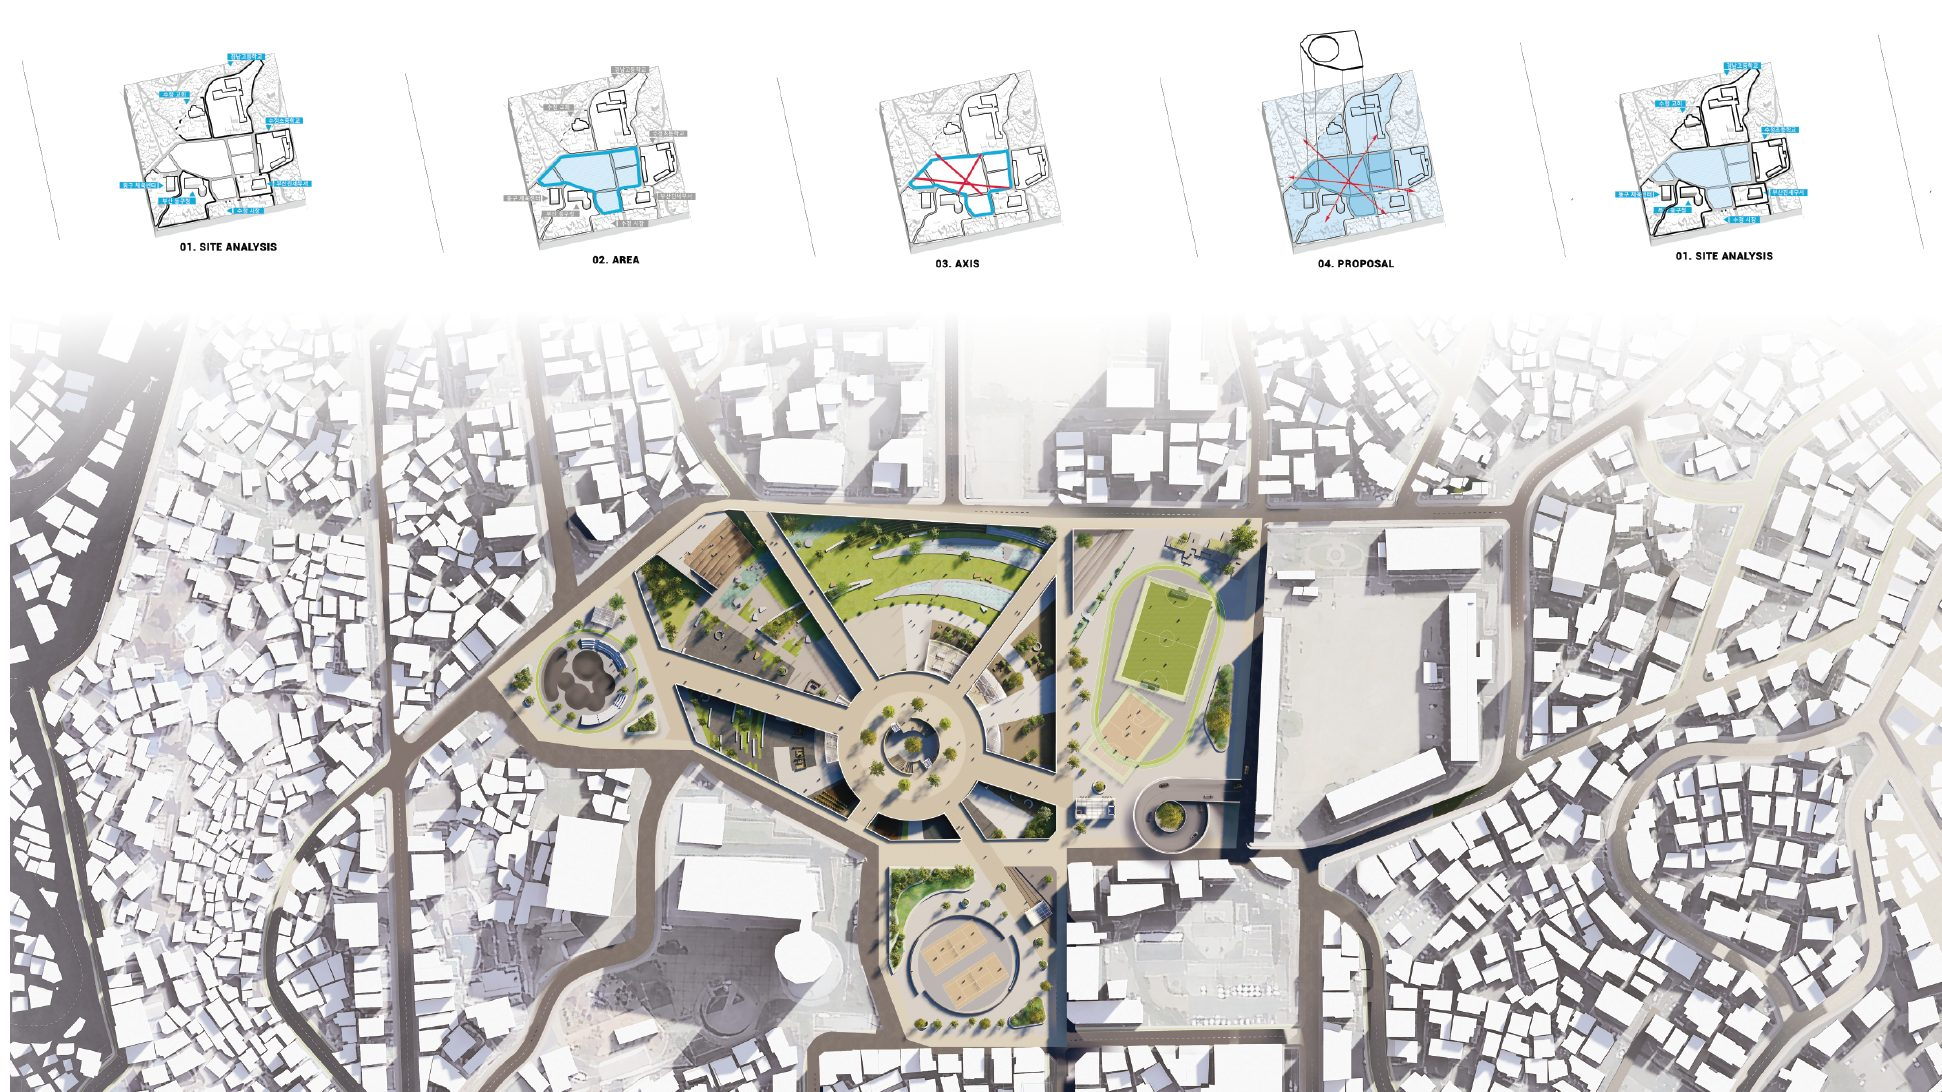
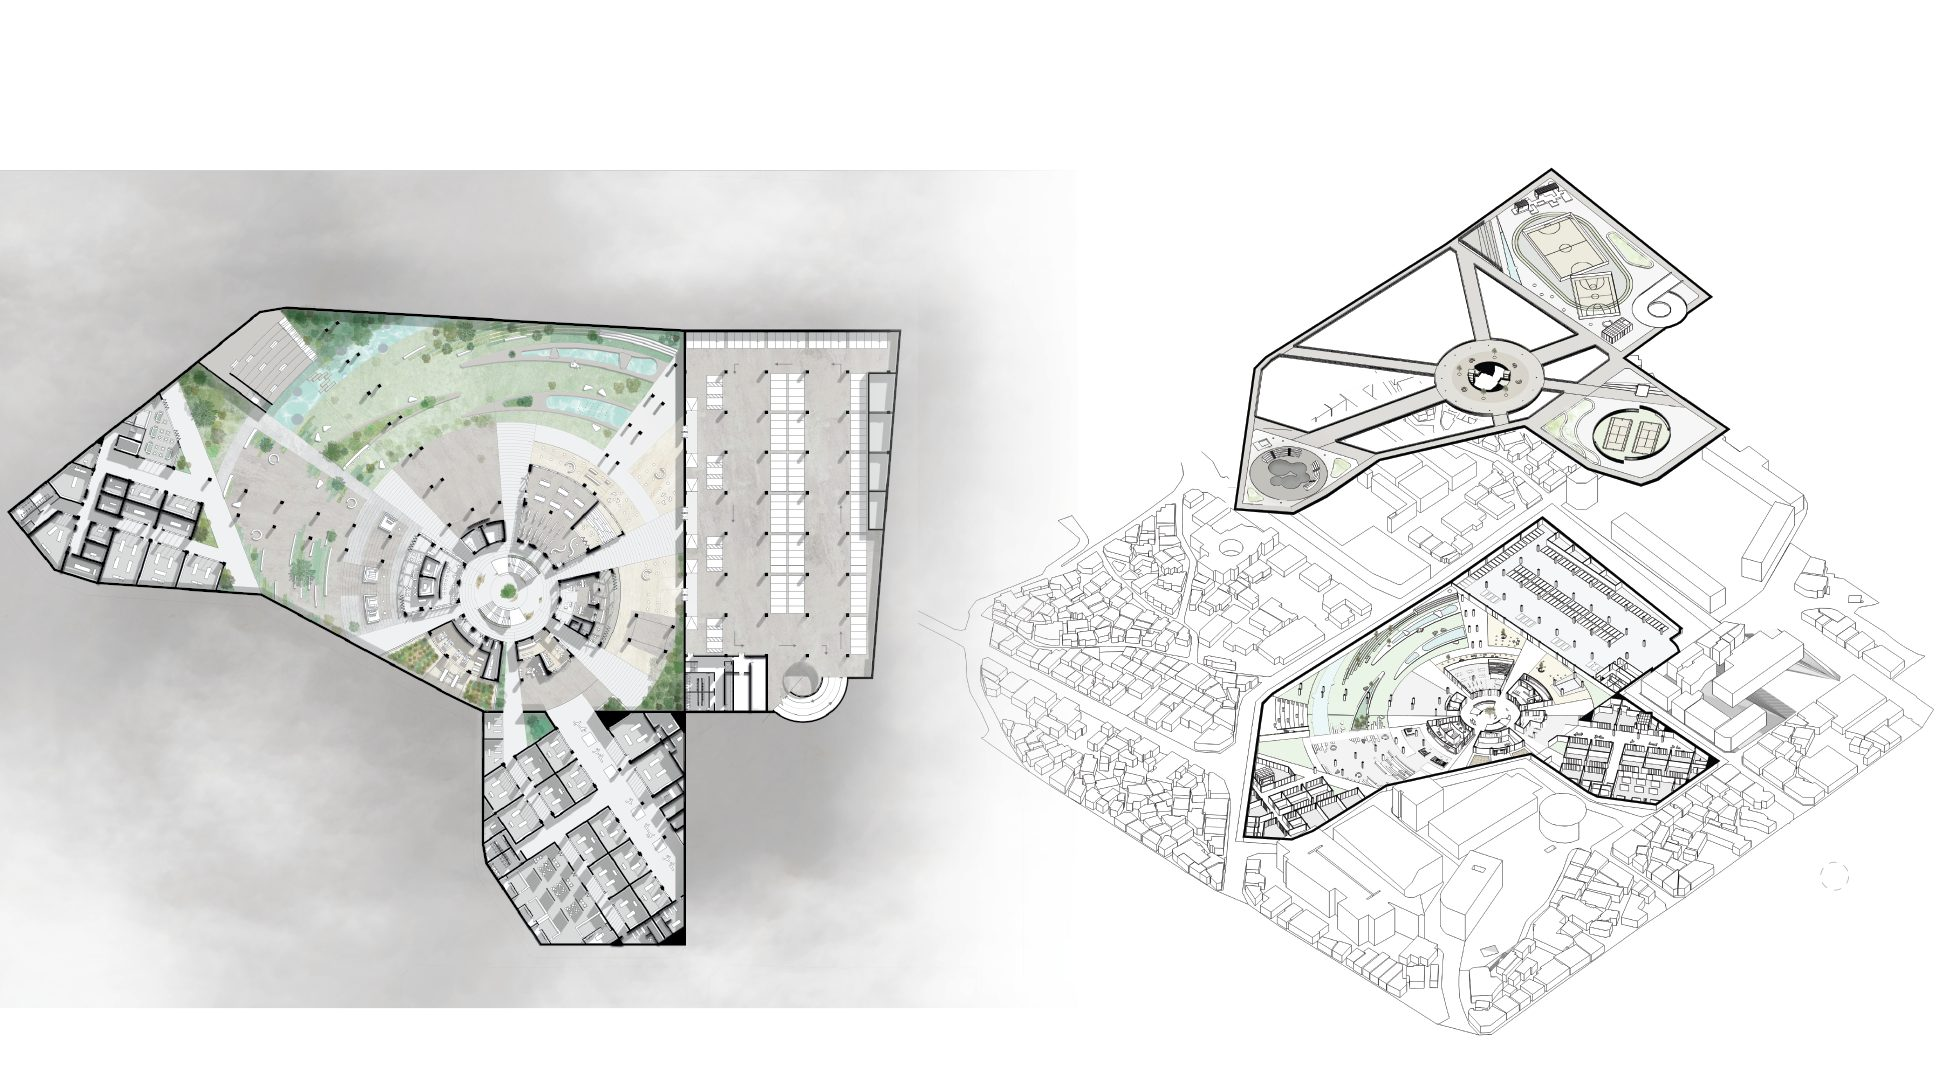
Restore per-slide captions from the Cargo project pages
라이브 사이트의 .caption-layout 구조에서 17개 슬라이드 캡션(제목+본문)을
전부 회수해 반영. 숨겨진 슬라이드라 innerText가 비어 textContent로 추출.

순서 교정 — 파일명의 숫자가 슬라이드 순서이고 '_main'은 대표 이미지 표시:
- super-block: 3_main 을 1번에 뒀던 것을 3번으로. 이미지 내용과 캡션을
  대조해 확정 (site analysis→01, masterplan+parking→02, hero render→03).
- parasol-memory: 영상은 06/06 'Project Film' 이므로 첫 슬라이드에서 마지막으로.
- scenes-of-the-arcade: 키네틱을 첫 슬라이드로 (캡션도 함께 이동).

diff --git a/data/site.js b/data/site.js
@@ -176,14 +176,14 @@ const SITE = {
       award: "Excellence Award",
       year: 2021,
       desc: "Separated from central Seoul by railway infrastructure and steep terrain, Manri Market has retained a distinctive urban identity while gradually losing its vitality as a traditional marketplace. Parasol Memory reimagines the declining market as a flexible public space where memories of the existing market coexist with temporary programs, reconnecting the fragmented neighborhood through everyday activity and festivity.",
-      images: [
-        "assets/img/work/parasol-memory/01.jpg",
-        "assets/img/work/parasol-memory/02.jpg",
-        "assets/img/work/parasol-memory/03.jpg",
-        "assets/img/work/parasol-memory/04.jpg",
-        "assets/img/work/parasol-memory/05.jpg"
-      ],
-      video: "dwGzhwqycQw"
+      slides: [
+        { src: "assets/img/work/parasol-memory/01.jpg", title: "Existing Manri Market", text: "Located near Seoul Station, Manri Market developed organically along the sloping streets of Seogye-dong, where vendors and shops appeared wherever people moved, met, and exchanged goods. Today, the market remains physically present but has largely lost the vitality and functions of its former marketplace." },
+        { src: "assets/img/work/parasol-memory/02.jpg", title: "Parasol Pop-up Space", text: "The project takes the parasol—a familiar element of traditional street markets—as a symbol of temporality and occupation. A parasol appears when activity begins and disappears when it ends, temporarily transforming an ordinary street into a place of exchange, gathering, and social interaction." },
+        { src: "assets/img/work/parasol-memory/03.jpg", title: "Memory & Imagination", text: "The proposal is organized around two complementary ideas: Memory and Imagination. Memory reinforces the everyday activities and spatial character of the existing market, while Imagination introduces flexible spaces for new activities to emerge. The Parasol Plaza and Pop-up Space accommodate temporary markets, events, gatherings, and festivals in response to changing needs." },
+        { src: "assets/img/work/parasol-memory/04.jpg", title: "Preserving the Existing Structure", text: "Rather than replacing the market's complex spatial structure, the project embraces the different levels, entrances, traces, and irregularities created over time. New interventions work within this existing fabric, preserving the identity of the market while reconnecting the fragmented slopes of Manri Hill." },
+        { src: "assets/img/work/parasol-memory/05.jpg", title: "Physical Model", text: "The physical model reveals how permanent memories and temporary activities coexist within the existing market fabric. Rather than imposing a singular new structure, the proposal works with the accumulated levels, paths, and spaces of Manri Market while allowing new activities to emerge throughout the site." },
+        { video: "dwGzhwqycQw", title: "Project Film", text: "By allowing permanent memories and temporary activities to coexist, Parasol Memory transforms Manri Market into an evolving public realm. The project preserves the identity of the existing market while reconnecting the fragmented slopes of Manri Hill through new possibilities for gathering, exchange, and celebration." }
+      ]
     },
     {
       slug: "return-to-flow",
@@ -192,10 +192,10 @@ const SITE = {
       award: "Excellence Award",
       year: 2022,
       desc: "As highways and electric mobility reshape transportation, roadside rest areas and gas stations are gradually losing their original roles. Return to Flow of Nature reimagines an abandoned rest area along National Route 44 as a wellness retreat—transforming obsolete roadside infrastructure into a destination worth visiting again.",
-      images: [
-        "assets/img/work/return-to-flow/01.jpg",
-        "assets/img/work/return-to-flow/02.jpg",
-        "assets/img/work/return-to-flow/03.jpg"
+      slides: [
+        { src: "assets/img/work/return-to-flow/01.jpg", title: "Reimagining Roadside Infrastructure", text: "Return to Flow of Nature reimagines an abandoned roadside rest area along National Route 44 in Yangpyeong, South Korea. Once built to serve travelers, rest areas and gas stations along national highways have gradually lost their role as traffic has shifted toward expressways. The transition toward electric mobility is expected to further accelerate this change, leaving many roadside facilities without their original purpose." },
+        { src: "assets/img/work/return-to-flow/02.jpg", title: "Transforming the Existing Site", text: "The project reorganizes the existing structures and landscape for a new form of occupation. The former gas station, accommodation spaces, circulation routes, and surrounding terrain are adapted to support rest, contemplation, and longer stays, allowing the site to take on a new role beyond mobility." },
+        { src: "assets/img/work/return-to-flow/03.jpg", title: "Wellness Retreat", text: "The abandoned rest area is transformed into a wellness retreat where the journey itself becomes a reason to stop. Instead of functioning as a transient roadside facility, the site becomes a destination where visitors intentionally arrive, stay, and reconnect with the surrounding landscape. Through this transformation, the rest area returns to the flow of nature." }
       ]
     },
     {
@@ -205,10 +205,10 @@ const SITE = {
       award: "",
       year: 2022,
       desc: "Super Block reimagines the area around Busanjin Station as a large-scale urban park connecting essential neighborhood facilities within a 15-minute walking radius. By linking local nodes through a continuous pedestrian landscape and relocating parking underground, the project transforms a dense neighborhood into a more walkable and connected public realm.",
-      images: [
-        "assets/img/work/super-block/01.jpg",
-        "assets/img/work/super-block/02.jpg",
-        "assets/img/work/super-block/03.jpg"
+      slides: [
+        { src: "assets/img/work/super-block/01.jpg", title: "A 15-Minute Neighborhood Park", text: "Super Block proposes a large-scale urban park around Busanjin Station, connecting essential neighborhood facilities within a 15-minute walking radius. Schools, community offices, health centers, and cultural facilities become key local nodes, while the area between them is reorganized as a continuous public landscape. By placing everyday destinations within a shared pedestrian network, the project transforms a fragmented neighborhood into a more accessible and connected urban environment." },
+        { src: "assets/img/work/super-block/02.jpg", title: "Connecting Urban Nodes", text: "The masterplan organizes the neighborhood around a central public landscape, from which pedestrian routes extend radially toward surrounding community facilities. These connections shorten everyday travel between key destinations while creating a clear spatial network through the park. Below ground, a large shared parking structure absorbs neighborhood parking demand and reduces surface congestion, allowing the ground level to be reclaimed for pedestrians and public space." },
+        { src: "assets/img/work/super-block/03.jpg", title: "Park as Urban Infrastructure", text: "The resulting landscape operates as more than a conventional park. It becomes a piece of urban infrastructure that integrates mobility, public programs, neighborhood facilities, and everyday recreation within a single continuous system. By relocating parking underground and prioritizing pedestrian movement above, Super Block creates a greener and more walkable public realm for a dense and long-established neighborhood." }
       ]
     },
     {
@@ -218,12 +218,12 @@ const SITE = {
       award: "",
       year: 2022,
       desc: "Inspired by the lively urban scenes of the late-Joseon painting Taepyeongseongsido, Scenes of the Arcade reimagines an aging antique art arcade as a contemporary cultural street. Spaces for viewing, learning, making, shopping, and gathering reconnect traditional art with everyday neighborhood life, while a modular kinetic facade allows the arcade to adapt to changing cultural and public programs.",
-      images: [
-        "assets/img/work/scenes-of-the-arcade/01.jpg",
-        "assets/img/work/scenes-of-the-arcade/02.jpg",
-        "assets/img/work/scenes-of-the-arcade/03.jpg",
-        "assets/img/work/scenes-of-the-arcade/04.jpg",
-        "assets/img/work/scenes-of-the-arcade/05.gif"
+      slides: [
+        { src: "assets/img/work/scenes-of-the-arcade/05.gif", title: "Kinetic Facade", text: "A modular kinetic facade allows the renovated spaces to respond to changing programs and levels of openness. The system can adapt to classes, lectures, exhibitions, library programs, and other cultural activities while changing the relationship between the interior and the surrounding street. The facade becomes a flexible architectural layer that supports different forms of learning, exchange, and public activity." },
+        { src: "assets/img/work/scenes-of-the-arcade/01.jpg", title: "An Aging Antique Art Arcade", text: "The project renovates an aging antique art arcade located beneath a residential apartment complex. The existing shops stretch along the bases of separate apartment blocks, creating a distinctive relationship between everyday residential life, the street, and the commercial arcade. Rather than treating the shops as an isolated retail facility, the proposal reconnects these spaces with the movement of the surrounding neighborhood." },
+        { src: "assets/img/work/scenes-of-the-arcade/02.jpg", title: "Inspired by Taepyeongseongsido", text: "The project is inspired by Taepyeongseongsido, a late-Joseon painting depicting an idealized and prosperous city filled with people, shops, buildings, and everyday activities. People move, play, trade goods, make objects, and gather throughout the city. These overlapping scenes of commerce, production, leisure, and social life become the conceptual basis for reimagining the antique arcade." },
+        { src: "assets/img/work/scenes-of-the-arcade/03.jpg", title: "From Shops to Shared Experience", text: "The spatial organization translates the activities found in Taepyeongseongsido into a contemporary sequence of programs and movement. Existing antique shops are connected with spaces for exhibitions, learning, making, lectures, and informal gathering. Visitors move between the street, arcade, and apartment blocks while experiencing traditional art through viewing, purchasing, learning, and making." },
+        { src: "assets/img/work/scenes-of-the-arcade/04.jpg", title: "A Contemporary Urban Scene", text: "The renewed arcade becomes a contemporary interpretation of the lively urban scenes depicted in Taepyeongseongsido. Commercial activity is combined with exhibitions, workshops, cultural programs, and everyday pedestrian movement, allowing traditional art to become part of daily neighborhood life. The arcade is transformed from a static retail environment into a shared cultural street where different activities continuously overlap." }
       ]
     }
   ],

diff --git a/assets/js/app.js b/assets/js/app.js
@@ -61,36 +61,40 @@
 
     design() {
       return SITE.designWork.map((w, wi) => {
-        const slides = [
-          ...(w.video ? [{ type: 'video', id: w.video }] : []),
-          ...w.images.map(src => ({ type: 'img', src }))
-        ];
-        const stage = slides.map((s, i) => s.type === 'video'
+        const sl = w.slides || [];
+        const stage = sl.map((s, i) => s.video
           ? `<div class="slide${i ? '' : ' on'}" data-i="${i}">
-               <iframe loading="lazy" src="https://www.youtube-nocookie.com/embed/${s.id}"
-                 title="${w.title} — video" frameborder="0" allowfullscreen
+               <iframe loading="lazy" src="https://www.youtube-nocookie.com/embed/${s.video}"
+                 title="${w.title} — ${s.title}" frameborder="0" allowfullscreen
                  allow="accelerometer; clipboard-write; encrypted-media; gyroscope; picture-in-picture"></iframe>
              </div>`
           : `<div class="slide${i ? '' : ' on'}" data-i="${i}">
-               <img src="${s.src}" alt="${w.title} ${i + 1}" loading="lazy">
+               <img src="${s.src}" alt="${w.title} — ${s.title}" loading="lazy">
              </div>`).join('');
-        const thumbs = slides.map((s, i) => s.type === 'video'
-          ? `<button class="thumb${i ? '' : ' on'}" data-i="${i}" aria-label="video">
-               <span class="thumb-play">&#9654;</span></button>`
-          : `<button class="thumb${i ? '' : ' on'}" data-i="${i}" aria-label="image ${i + 1}">
-               <img src="${s.src}" alt="" loading="lazy"></button>`).join('');
+
+        const thumbs = sl.map((s, i) => s.video
+          ? `<button class="thumb${i ? '' : ' on'}" data-i="${i}" title="${s.title}"
+                     aria-label="${s.title}"><span class="thumb-play">&#9654;</span></button>`
+          : `<button class="thumb${i ? '' : ' on'}" data-i="${i}" title="${s.title}"
+                     aria-label="${s.title}"><img src="${s.src}" alt="" loading="lazy"></button>`).join('');
+
+        const caps = sl.map((s, i) => `<div class="cap${i ? '' : ' on'}" data-i="${i}">
+            <h4 class="cap-title">${s.title}</h4>
+            <p class="cap-text">${s.text}</p>
+          </div>`).join('');
 
         return `<article class="work" data-w="${wi}">
           <h3 class="work-title">${w.title}</h3>
           <p class="work-meta">${w.meta}</p>
           ${w.award ? `<p class="award">${w.award}</p>` : ''}
-          ${slides.length ? `<div class="slider" data-count="${slides.length}">
+          ${sl.length ? `<div class="slider" data-count="${sl.length}">
             <div class="stage">${stage}
               <button class="nav prev" aria-label="previous">&#8249;</button>
               <button class="nav next" aria-label="next">&#8250;</button>
-              <span class="counter">1 / ${slides.length}</span>
+              <span class="counter">01 / ${String(sl.length).padStart(2, '0')}</span>
             </div>
             <div class="thumbs">${thumbs}</div>
+            <div class="caps">${caps}</div>
           </div>` : ''}
           <p class="work-desc">${w.desc}</p>
         </article>`;
@@ -122,6 +126,7 @@
     root.querySelectorAll('.slider').forEach(sl => {
       const slides = [...sl.querySelectorAll('.slide')];
       const thumbs = [...sl.querySelectorAll('.thumb')];
+      const caps   = [...sl.querySelectorAll('.cap')];
       const counter = sl.querySelector('.counter');
       let cur = 0;
 
@@ -129,7 +134,9 @@
         cur = (i + slides.length) % slides.length;
         slides.forEach((s, n) => s.classList.toggle('on', n === cur));
         thumbs.forEach((t, n) => t.classList.toggle('on', n === cur));
-        counter.textContent = `${cur + 1} / ${slides.length}`;
+        caps.forEach((c, n) => c.classList.toggle('on', n === cur));
+        counter.textContent =
+          `${String(cur + 1).padStart(2, '0')} / ${String(slides.length).padStart(2, '0')}`;
         // 보이지 않는 슬라이드의 영상은 정지
         slides.forEach((s, n) => {
           const f = s.querySelector('iframe');

diff --git a/assets/css/style.css b/assets/css/style.css
@@ -436,3 +436,14 @@ img{max-width:100%; display:block}
 .sc-node-l{font-family:var(--mono); font-size:9px; fill:var(--ink-3)}
 @media (prefers-reduced-motion:reduce){.sc-lamp,.sc-ghost{animation:none; opacity:1}}
 [hidden]{display:none !important}
+
+/* 슬라이드 캡션 */
+.caps{position:relative; margin-top:.9rem; min-height:5.5rem}
+.cap{position:absolute; inset:0; opacity:0; visibility:hidden; transition:opacity .28s}
+.cap.on{opacity:1; visibility:visible; position:relative}
+.cap-title{
+  font-size:.82rem; font-weight:700; letter-spacing:.01em;
+  color:var(--accent); margin:0 0 .35rem;
+}
+.cap-text{font-size:.82rem; line-height:1.6; color:var(--ink-2); max-width:64ch; margin:0}
+@media (max-width:760px){.caps{min-height:9rem}}
